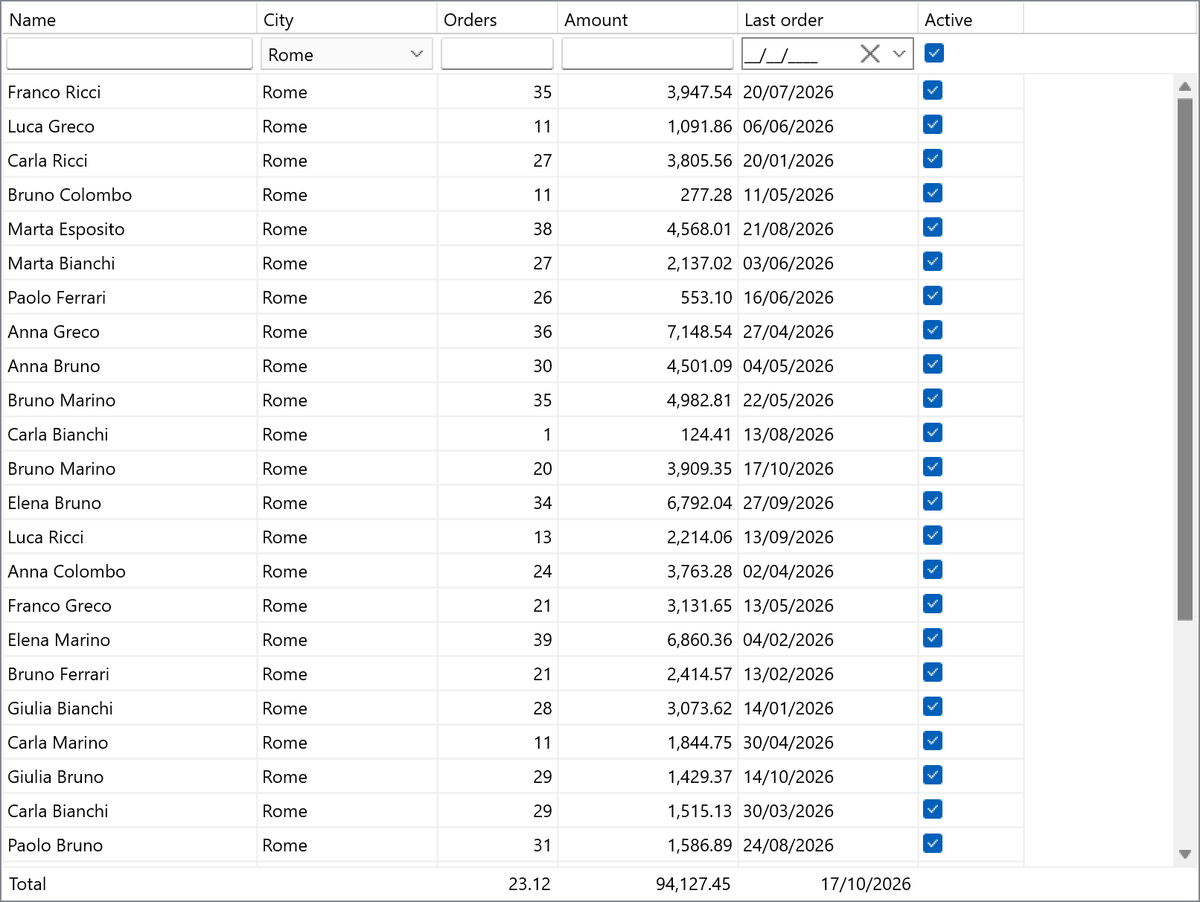
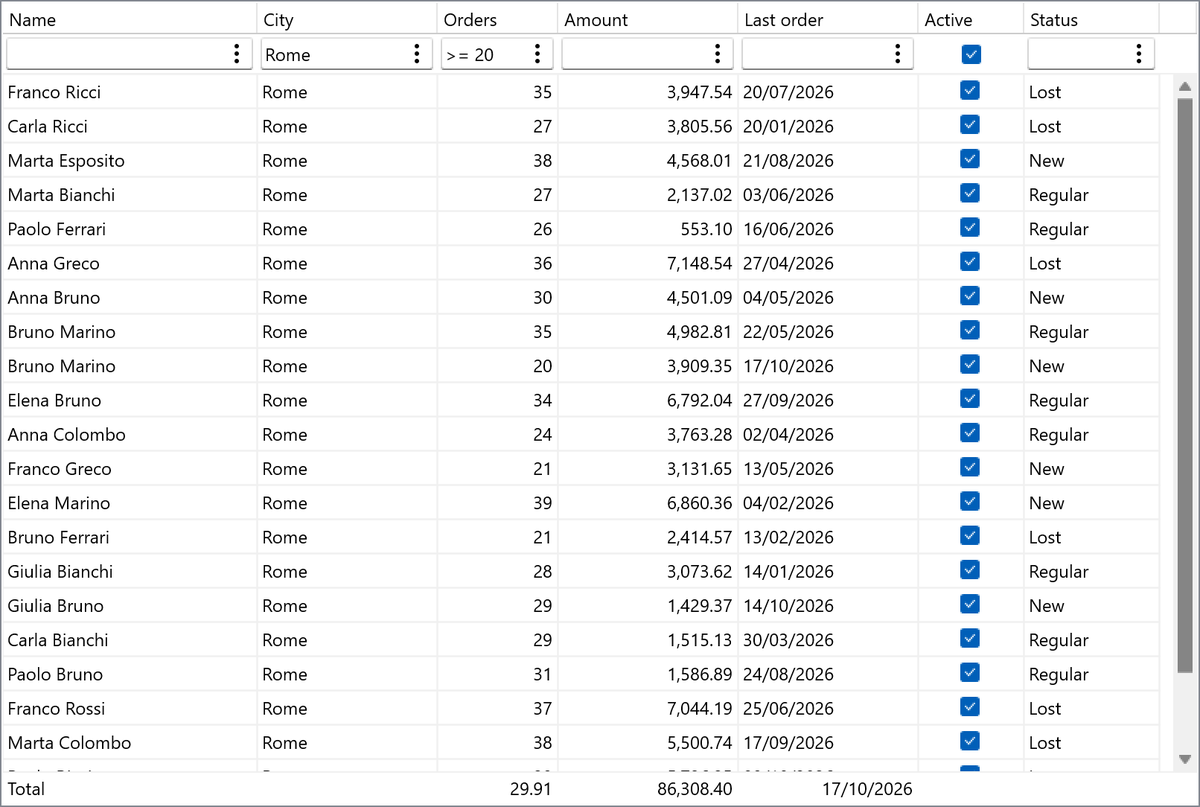
Document the lists of texts and values of the filters of TS4YGrid
The documentation explains the lists of texts and values and
SetFilterEnum; the demo has an integer column of the status that shows
texts, and the screenshot of the grid shows the filters with their
operators and menus.

diff --git a/Docs/Grid/README.md b/Docs/Grid/README.md
@@ -53,7 +53,7 @@ The row follows the columns: an editor has the width of its column, moves with i
 | Type of the column | Editor | Kind of value | Value of the filter |
 |---|---|---|---|
 | `TCheckColumn` | Check box with three states: any row (shown faded), checked rows, unchecked rows; a click passes to the next state. The box is placed as the boxes of the cells, by the `HorzAlign` of the column | Boolean | `Boolean` |
-| `TPopupColumn`, or any column with `FilterItems` | Text field with the button of the menu, where the values of the list can be chosen | list | `string` |
+| `TPopupColumn`, or any column with `FilterItems` | Text field with the button of the menu, where the values of the list can be chosen | list | `string`; with lines `Text=Value`, the value of the type of the column (see [Lists of texts and values](#lists-of-texts-and-values)) |
 | `TIntegerColumn` | Text field with the button of the menu | integer | `Int64` |
 | `TFloatColumn`, `TCurrencyColumn` | Text field with the button of the menu | decimal | `Double` |
 | `TDateColumn`, `TDateTimeColumn` | Text field with the button of the menu, with the calendar and today | date | `TDate` |
@@ -68,6 +68,30 @@ A column of date and time is filtered by the day: its time is not compared.
 
 To give a column an editor of your own, handle `OnCreateFilterEditor` and create a `TControl` that implements `IS4YGridFilterEditor`, the interface of the unit `Soft4You.FMX.Controls.Grid.Types`: the grid becomes its parent and frees it. Its value becomes the filter of the column with the default operator of the column; a value the text of a filter cannot hold, such as a range of two dates, is kept as it is in `FilterValue`, and the application filters with it. The editors of the unit `Soft4You.FMX.Controls.Grid.FilterEditors` can be used as models, or as base classes.
 
+### Lists of texts and values
+
+The cells of a column can show a text for each value of the data, such as an integer column with the values of an enumerated type, shown as *Open*, *Closed*, *Suspended* by `OnGetValue` or by a `CustomFormat` of the LiveBindings. Its `FilterItems` can then have a line `Text=Value` for each value:
+
+```
+Open=0
+Closed=1
+Suspended=2
+```
+
+- the user sees the texts in the menu, and writes them in the field: `Open`, `! Closed`, `<> Suspended`, without difference between upper and lower case; a text that is not in the list, or the value itself, such as `1`, is invalid;
+- `FilterValue` is the value of the text, of the type of the column: an `Int64` for an integer column, a `string` for a text column with codes such as `Rome=RM`;
+- `FilterMatches` compares the value of a row with it: the application passes the value of its data, such as `Ord(Customer.Status)`; a row given as the text of an item, such as the text shown in the cell, counts as the value of that item;
+- `FilterValue`, `SetFilter` and the menu write the text of a value: `FilterValue[StatusColumn] := 2` writes *Suspended*;
+- a line without `=` is a text that is its own value; a list where no line has `=` is a list of texts, as before, and accepts any text.
+
+`ColumnSettings[].SetFilterEnum(TypeInfo(TStatus), ['Open', 'Closed', 'Suspended'])` fills `FilterItems` from an enumerated type: a line for each value, with the text of `ATexts` in the order of the values and the ordinal number as value. The texts are given by the application, so that they can be translated; an empty array uses the names of the values (`stOpen=0`).
+
+```pascal
+Grid.ColumnSettings.Add(StatusColumn).SetFilterEnum(TypeInfo(TStatus), [SOpen, SClosed, SSuspended]);
+...
+if Grid.FilterMatches(StatusColumn, Ord(LCustomer.Status)) then
+```
+
 ### Settings of the columns
 
 `ColumnSettings` is a collection, saved in the form, with the settings of the grid for some of its columns; a column without an item has the default settings.
@@ -76,7 +100,7 @@ To give a column an editor of your own, handle `OnCreateFilterEditor` and create
 |---|---|---|
 | `Column` | | The column of the grid the item is for |
 | `Filterable` | `True` | Shows the editor of the column in the filter row |
-| `FilterItems` | empty | The values the user can choose as filter of the column, in the menu of its filter: when there are some, the filter is a value of a list, whatever the type of the column |
+| `FilterItems` | empty | The values the user can choose as filter of the column, in the menu of its filter: when there are some, the filter is a value of a list, whatever the type of the column. Lines `Text=Value` show the texts and give the values (see [Lists of texts and values](#lists-of-texts-and-values)) |
 | `FilterMenu` | | A `TPopupMenu` of the application for the button of the editor of the column, instead of the menu of the grid (see [Filter menu](#filter-menu)) |
 | `FooterKind` | `gfkNone` | What the footer shows under the column (see [Footer](#footer)) |
 | `FooterText` | empty | The text of the footer when `FooterKind` is `gfkText`, for example *Total* |
@@ -101,7 +125,7 @@ The text of a filter is an **operator** and a **value**: the operator, when ther
 | `=` alone | Is empty: the rows without a value | all |
 | `<>` alone, `!=` alone | Is not empty: the rows with a value | all |
 
-The texts are compared without difference between upper and lower case. The numbers, the dates and the times are written as in the regional settings of the computer, such as `1,5` or `15/03/2026` in Italian. A column with a list of values accepts only equal to, not equal to, is empty and is not empty.
+The texts are compared without difference between upper and lower case. The numbers, the dates and the times are written as in the regional settings of the computer, such as `1,5` or `15/03/2026` in Italian. A column with a list of values accepts only equal to, not equal to, is empty and is not empty; when its list has texts and values, only the texts of the list.
 
 **The operators are read only at the start, and `*` only as the first or the last character.** Everything else is part of the value: `a*b` looks for *a\*b*, and `x=y` for *x=y*.
 
@@ -303,7 +327,7 @@ The methods work also when `Sorting.Enabled` is `False`, and the header shows th
 
 `Demos\Grid\S4YGridDemo.dproj` (also part of the project group `Demos\Soft4You.FMX.Controls.Demos.groupproj`) has three tabs:
 
-- **Objects**: 200 customers in a list of objects, shown with `OnGetValue` and filtered by the application in `OnFilter` with `FilterMatches`, with the cities in the menu of their filter (`FilterItems`), an item of the application in the menu of the amount (`OnFilterMenu`) and a footer with a text, an average, a sum and a date; the panel on the left changes the filter row (`Visible`, `AutoFilter`, `FilterDelay`, `ClearOnHide`, `ClearFilters`) and the footer (`Visible`, the `FooterKind` of the amount, the sum of all the data with `OnGetFooterText`) and the order (`Sorting.Enabled`, `MultiColumn`, `ShowOrder`, `OrderPosition`, `OrderSpacing`), and shows the last `OnFilterChanged` with the text, the operator and the value read, the rows shown and the keys of the last `OnSort`; the application sorts the list with a comparer that reads the keys, after the filters;
+- **Objects**: 200 customers in a list of objects, shown with `OnGetValue` and filtered by the application in `OnFilter` with `FilterMatches`, with the cities in the menu of their filter (`FilterItems`), an item of the application in the menu of the amount (`OnFilterMenu`), an integer column of the status that shows texts, filtered with `SetFilterEnum` and a footer with a text, an average, a sum and a date; the panel on the left changes the filter row (`Visible`, `AutoFilter`, `FilterDelay`, `ClearOnHide`, `ClearFilters`) and the footer (`Visible`, the `FooterKind` of the amount, the sum of all the data with `OnGetFooterText`) and the order (`Sorting.Enabled`, `MultiColumn`, `ShowOrder`, `OrderPosition`, `OrderSpacing`), and shows the last `OnFilterChanged` with the text, the operator and the value read, the rows shown and the keys of the last `OnSort`; the application sorts the list with a comparer that reads the keys, after the filters;
 - **LiveBindings**: the same customers in a `TFDMemTable`, shown through a `TLinkGridToDataSource`, filtered by the data set in `OnFilterRecord`, which compares each field with `FilterMatches`, and sorted with its `IndexFieldNames` in `OnSort`, with the footer read through the link;
 - **Style book**: the grid with a dark style of the `TStyleBook` of the form, with the parts `filterrowbackground`, `footerbackground`, `footertext` and `filterinvalidtext`.
 
@@ -372,7 +396,7 @@ end;
 
 ## Styles
 
-The filter row is added to the style of the grid when the style is applied: to the part `background`, aligned to the top after the header, so the part `content` with the cells starts under it. The row draws a line on its bottom side with the brush `linefill` of the style, the brush of the lines of the grid, and its editors take the styles of the form, looked for in its style book and in the style of the platform: `editstyle`, the style of `TEdit`, for the text fields, and `checkcellstyle`, the style of the check boxes of the cells of the grid, for the check boxes, so that a check box of the row looks as the ones of the cells. `FilterRow.EditStyleLookup` and `FilterRow.CheckBoxStyleLookup` give the editors of the row styles of their own, different from the other controls of the application; a style that is not found leaves the style of `TEdit` or of `TCheckBox`. The button of the menu takes the style `ellipseseditbutton` of the buttons of `TEdit`, and draws its three dots with the color of the text of the style of `TEdit`.
+The filter row is added to the style of the grid when the style is applied: to the part `background`, aligned to the top after the header, so the part `content` with the cells starts under it. The row draws a line on its bottom side with the brush `linefill` of the style, the brush of the lines of the grid, and its editors take the styles of the form, looked for in its style book and in the style of the platform: `editstyle`, the style of `TEdit`, for the text fields, and `checkcellstyle`, the style of the check boxes of the cells of the grid, for the check boxes, so that a check box of the row looks as the ones of the cells. `FilterRow.EditStyleLookup` and `FilterRow.CheckBoxStyleLookup` give the editors of the row styles of their own, different from the other controls of the application; a style that is not found leaves the style of `TEdit` or of `TCheckBox`. The button of the menu is square, as high as the inside of the field; it takes the style `ellipseseditbutton` of the buttons of `TEdit`, and draws its three dots with the color of the text of the style of `TEdit`.
 
 The menu of a filter is a `TPopup`, which takes the style book of the form. `FilterRow.MenuStyleLookup` gives the popup a style of its own, for its background and its border, without changing the other popups of the application; the list of the items inside it then has no background of its own, so the background of the style is seen. When the popup finds no style, as with the styles of the platform of Windows, which have no `popupstyle`, or with a `MenuStyleLookup` that is not in the style book, the list keeps the background and the border of its own style. The items keep the style of the items of `TListBox`: with a dark background, give them a light text in that style.
 

diff --git a/CHANGELOG.md b/CHANGELOG.md
@@ -15,7 +15,7 @@ The changes of each release of the Soft4You FMX Control Suite, the newest first.
 - `TS4YPieChart`: pie chart, or ring chart with a hole in the middle, with a legend on any side, values, percents or captions written inside or beside the slices, the total in the middle of the ring, an animation when the chart appears and when its data change, and a click on a slice. The slices are stored in the form or filled by the LiveBindings through a standard `TLinkGridToDataSource`, kept apart from the stored ones, with the current record following the current slice and an event to change the look of each bound slice. The colors come from a palette, of the chart or of the style, and the look from a style.
 - `TS4YBarChart`: bar chart, with vertical or horizontal bars, categories and series side by side, a value axis with an automatic or fixed range and grid lines, grid lines between the categories, values written beyond the bars, negative values, a legend of the series, animation and a click on a bar. Like the pie chart, the data are stored in the form or filled by a `TLinkGridToDataSource`, where each column after the first is a series, with events to change the look of the bound series and categories.
 - `TS4YLineChart`: line chart, with the same categories, series, axes and LiveBindings as the bar chart, a line for each series with points on the values, and the area under the lines that can be filled with the color of the series.
-- `TS4YGrid`: grid (a `TGrid`) with a filter row under the header, where the user writes for each column a filter made of an operator and a value (`abc`, `= abc`, `! abc`, `abc*`, `*abc`, `> 10`, `<= 15/03/2026`, `=` for the empty values, `<>` for the others, double quotes for a text as it is), read with the type of the column: text, number, date, time, a value of a list (a `TPopupColumn` or the values given in `FilterItems`); a check column has a check box with three states. A text that cannot be read takes a color of the style, and Esc clears a filter. The button of each field opens a menu with the operators, the values of the list, a calendar, today or the current time and an item that clears the filter, which the application can change with `OnFilterMenu` or replace with a `TPopupMenu` of its own; the style of the popup can be chosen. The grid fires `OnFilter` when the application must filter its data, with Enter or by itself after a pause in the typing with `AutoFilter`, and gives the operator and the value of each filter, for a query, or compares the values of the rows with `FilterMatches`, for the data in memory. A footer can show under each column the sum, the average, the count, the lowest or the highest value of the rows of the grid, or a text, with the format of the column or one of its own, and `OnGetFooterText` to change it. The filter row and the footer are added to the style of the grid, from the platform or from a style book, which can give them a background, the font of the footer and the space around the editors and the texts, and follow the width, the order, the visibility and the horizontal scroll of the columns. A click on the header sorts the rows by a column, Shift+click by more columns, Ctrl+click removes a column and Alt+click goes back to the order of the data; the header shows the arrow of the direction and the position of each key, and the application sorts its data in `OnSort`.
+- `TS4YGrid`: grid (a `TGrid`) with a filter row under the header, where the user writes for each column a filter made of an operator and a value (`abc`, `= abc`, `! abc`, `abc*`, `*abc`, `> 10`, `<= 15/03/2026`, `=` for the empty values, `<>` for the others, double quotes for a text as it is), read with the type of the column: text, number, date, time, a value of a list (a `TPopupColumn` or the values given in `FilterItems`, also as text and value, such as `Open=1`, filled from an enumerated type with `SetFilterEnum`, for columns whose cells show a text for each value); a check column has a check box with three states. A text that cannot be read takes a color of the style, and Esc clears a filter. The button of each field opens a menu with the operators, the values of the list, a calendar, today or the current time and an item that clears the filter, which the application can change with `OnFilterMenu` or replace with a `TPopupMenu` of its own; the style of the popup can be chosen. The grid fires `OnFilter` when the application must filter its data, with Enter or by itself after a pause in the typing with `AutoFilter`, and gives the operator and the value of each filter, for a query, or compares the values of the rows with `FilterMatches`, for the data in memory. A footer can show under each column the sum, the average, the count, the lowest or the highest value of the rows of the grid, or a text, with the format of the column or one of its own, and `OnGetFooterText` to change it. The filter row and the footer are added to the style of the grid, from the platform or from a style book, which can give them a background, the font of the footer and the space around the editors and the texts, and follow the width, the order, the visibility and the horizontal scroll of the columns. A click on the header sorts the rows by a column, Shift+click by more columns, Ctrl+click removes a column and Alt+click goes back to the order of the data; the header shows the arrow of the direction and the position of each key, and the application sorts its data in `OnSort`.
 
 ### Fixed
 
